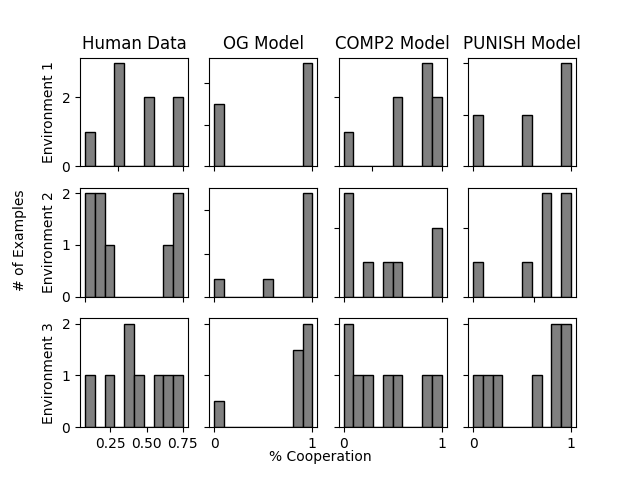
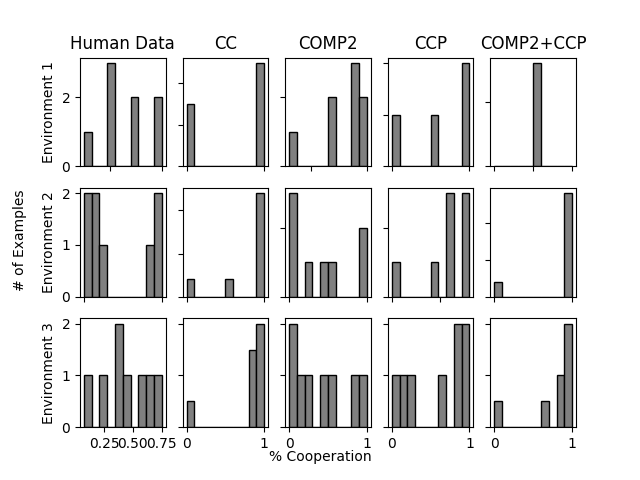
Update

diff --git a/punish_comp2_planner.py b/punish_comp2_planner.py
@@ -1,0 +1,77 @@
+from punish import Punish
+from increase_competitive import IncreaseCompetitive
+from cooperative import Cooperative
+import random
+import math
+from scipy.special import log_softmax, softmax
+
+class PunishComp2Planner():
+
+    def __init__(self, environment, environment2, p_coop=1, p_comp=1, p_punish=1):
+        max_iter = 1000
+        self.competitive_model1 = IncreaseCompetitive(environment, environment2, max_iter)
+        self.competitive_model1.train()
+        self.competitive_model2 = IncreaseCompetitive(environment2, environment, max_iter)
+        self.competitive_model2.train()
+        self.cooperative_model1 = Cooperative(environment, max_iter)
+        self.cooperative_model1.train()
+        self.cooperative_model2 = Cooperative(environment2, max_iter)
+        self.cooperative_model2.train()
+        self.punish1 = Punish(environment, self.cooperative_model2, max_iter)
+        self.punish1.train()
+        self.punish2 = Punish(environment2, self.cooperative_model1, max_iter)
+        self.punish2.train()
+        
+        self.models1 = [self.cooperative_model1, self.competitive_model1, self.punish1]
+        self.models2 = [self.cooperative_model2, self.competitive_model2, self.punish2]
+        self.environment1 = environment
+        self.environment2 = environment2
+        self.p_coop = p_coop
+        self.p_comp = p_comp
+        self.p_punish = p_punish
+
+    """
+    0: coop
+    1: comp
+    """
+    def infer(self, rounds1, rounds2):
+        model2 = self.models2[self.intention(rounds1, self.cooperative_model1, self.competitive_model1, self.punish1)]
+        model1 = self.models1[self.intention(rounds2, self.cooperative_model2, self.competitive_model2, self.punish2)]
+
+        state = self.environment1.init_state
+        while(True):
+            a1 = model1.next_move(state)
+            a2 = model2.next_move((state[1], state[0]))
+            next_states = []
+            next_probs = []
+            for s in self.environment1.states:
+                if (state, a1, a2, s) in self.environment1.transitions:
+                    next_states.append(s)
+                    next_probs.append(self.environment1.transitions[(state, a1, a2, s)])
+            next_state = random.choices(next_states, next_probs)[0]
+            transition = (state, a1, a2, next_state)
+            if next_state == self.environment1.END_STATE:
+                if transition in self.environment1.collab_state:
+                    return self.environment1.collab_state[transition]
+                else:
+                    return -100
+            state = next_state
+
+    
+    def intention(self, rounds, coop_model, comp_model, punish_model):
+        if len(rounds) == 0:
+            return random.randint(0,2)
+        total_coop = 0
+        total_comp = 0
+        total_punish = 0
+        for round in rounds:
+            coop = coop_model.step(round) + math.log(self.p_coop)
+            comp = comp_model.step(round) + math.log(self.p_comp)
+            punish = punish_model.step(round) + math.log(self.p_punish)
+            probs = log_softmax([coop, comp, punish])
+            total_coop += probs[0]
+            total_comp += probs[1]
+            total_punish += probs[2]
+        probs = softmax([total_coop, total_comp, total_punish])
+        return random.choices(range(3), probs)[0]
+

diff --git a/plotter.py b/plotter.py
@@ -3,12 +3,14 @@ from sklearn.cluster import KMeans
 import numpy as np
 from scipy import stats
 
-fig, axs = plt.subplots(3, 4)
 
 files = ['env1.csv', 'env2.csv', 'env3.csv']
-folders = ['results/', 'results/increase/', 'results/punish/']
+folders = ['results/', 'results/increase/', 'results/punish/', 'results/punish_comp/']
 num_ex = 8
 len_ex = 10
+
+fig, axs = plt.subplots(len(files), len(folders)+1)
+
 
 
 def convert_from_reward_to_binary(datum):
@@ -77,9 +79,10 @@ for ax in axs.flat:
     ax.label_outer()
 
 axs[0,0].set_title('Human Data')
-axs[0,1].set_title('OG Model')
-axs[0,2].set_title('COMP2 Model')
-axs[0,3].set_title('PUNISH Model')
+axs[0,1].set_title('CC')
+axs[0,2].set_title('COMP2')
+axs[0,3].set_title('CCP')
+axs[0,4].set_title('COMP2+CCP')
 axs[0,0].set(ylabel='Environment 1')
 axs[1,0].set(ylabel='Environment 2')
 axs[2,0].set(ylabel='Environment 3')
@@ -91,7 +94,7 @@ plt.savefig("results/avg.png")
 
 #histogram
 plt.figure()
-fig, axs = plt.subplots(3,4)
+fig, axs = plt.subplots(len(files),len(folders)+1)
 percent_collabs = []
 for i in range(len(stuffs)):
     percent_collabs.append([])
@@ -105,9 +108,10 @@ for ax in axs.flat:
     ax.label_outer()
 
 axs[0,0].set_title('Human Data')
-axs[0,1].set_title('OG Model')
-axs[0,2].set_title('COMP2 Model')
-axs[0,3].set_title('PUNISH Model')
+axs[0,1].set_title('CC')
+axs[0,2].set_title('COMP2')
+axs[0,3].set_title('CCP')
+axs[0,4].set_title('COMP2+CCP')
 axs[0,0].set(ylabel='Environment 1')
 axs[1,0].set(ylabel='Environment 2')
 axs[2,0].set(ylabel='Environment 3')
@@ -119,7 +123,7 @@ plt.savefig("results/histo.png")
 
 #scatter
 plt.figure()
-fig, axs = plt.subplots(3,3)
+fig, axs = plt.subplots(len(files),len(folders))
 for i in range(len(stuffs)):
     for j in range(1, len(stuffs[i])):
         model_collab = percent_collabs[i][j]
@@ -131,9 +135,10 @@ for i in range(len(stuffs)):
 for ax in axs.flat:
     ax.label_outer()
 
-axs[0,0].set_title('OG Model')
-axs[0,1].set_title('COMP2 Model')
-axs[0,2].set_title('PUNISH Model')
+axs[0,0].set_title('CC')
+axs[0,1].set_title('COMP2')
+axs[0,2].set_title('CCP')
+axs[0,3].set_title('COMP2+CCP')
 axs[0,0].set(ylabel='Environment 1')
 axs[1,0].set(ylabel='Environment 2')
 axs[2,0].set(ylabel='Environment 3')

diff --git a/main.py b/main.py
@@ -4,19 +4,23 @@ from env3 import MyEnv
 from planner import Planner
 from punish_planner import PunishPlanner
 from increase_planner import IncreasePlanner
+from punish_comp2_planner import PunishComp2Planner
 import os
 
-choice = 'og'
+choice = 'pc2'
 
 if choice == 'og':
     result_dir = 'results/'
     planner_type = Planner
 elif choice == 'comp2':
-    result_dir = 'results/increase'
+    result_dir = 'results/increase/'
     planner_type = IncreasePlanner
 elif choice == 'punish':
-    result_dir = 'results/punish'
+    result_dir = 'results/punish/'
     planner_type = PunishPlanner
+elif choice == 'pc2':
+    result_dir = 'results/punish_comp/'
+    planner_type = PunishComp2Planner
 
 data = 'data/'
 env1 = ('env1', CoopEnv(1), CoopEnv(2))
